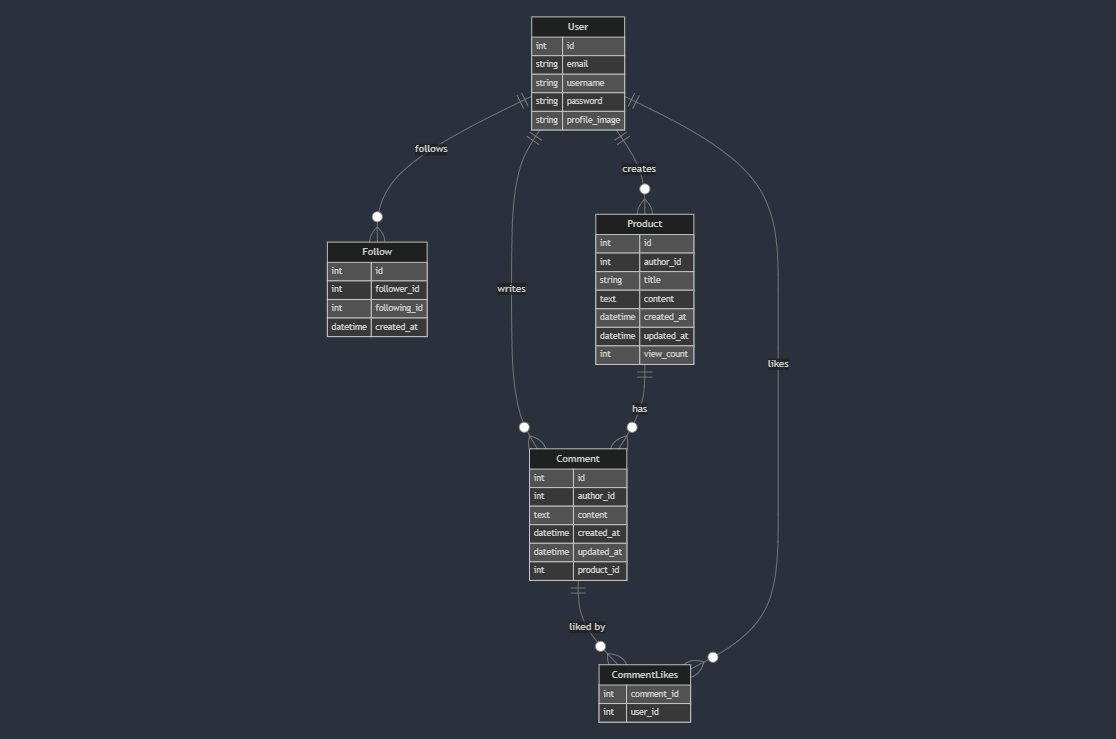
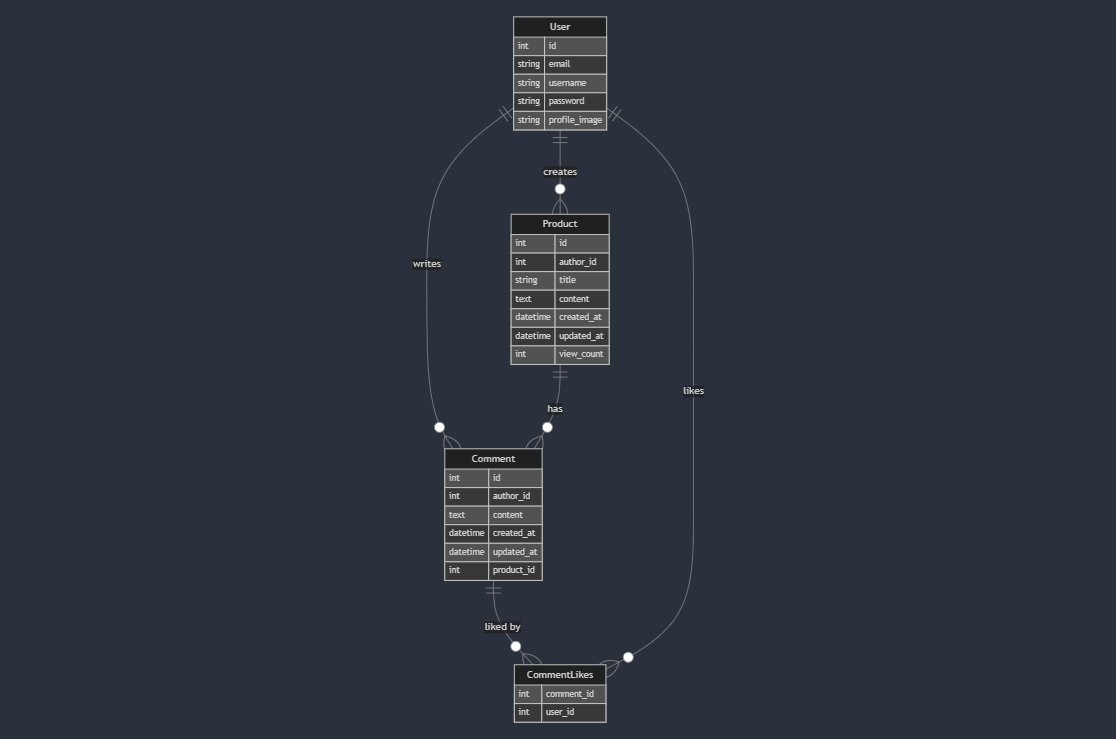
fifth commit

diff --git a/accounts/models.py b/accounts/models.py
@@ -22,16 +22,6 @@ class User(AbstractUser):
     username = models.CharField('닉네임', max_length=150)  # unique=True 제거
     profile_image = models.ImageField('프로필 이미지', upload_to='profile_images/', blank=True, null=True)
     
-    # ManyToManyField로 팔로우 기능 구현
-    followings = models.ManyToManyField(
-        'self',  # 자기 자신과의 관계
-        symmetrical=False,  # 대칭 관계가 아님 (단방향)
-        related_name='followers',  # 역참조 이름
-        through='Follow',  # 중간 테이블
-        blank= True
-    )
-
-
     USERNAME_FIELD = 'email'    # 로그인 시 이메일 사용
     REQUIRED_FIELDS = []        # email은 자동으로 필수
 
@@ -41,18 +31,3 @@ class User(AbstractUser):
     def __str__(self):
         return self.email
     
-
-
-# 중간 테이블을 명시적으로 정의
-class Follow(models.Model):
-    follower = models.ForeignKey(
-        User, related_name='followed_users', on_delete=models.CASCADE)  # 팔로우를 하는 사용자
-    following = models.ForeignKey(
-        User, related_name='following_users', on_delete=models.CASCADE)  # 팔로우받는 사용자
-    created_at = models.DateTimeField(auto_now_add=True)  # 팔로우한 시간
-
-    class Meta:
-        unique_together = ('follower', 'following')  # 중복 팔로우 방지
-
-    def __str__(self):
-        return f"{self.follower} follows {self.following}"

diff --git a/accounts/serializers.py b/accounts/serializers.py
@@ -32,21 +32,11 @@ class SignupSerializer(serializers.ModelSerializer):
 #         fields = ['email', 'username', 'profile_image']  # 반환할 필드
 
 class UserProfileSerializer(serializers.ModelSerializer):
-    
-    class FollowSerializer(serializers.ModelSerializer):
-        class Meta:
-            model = User
-            fields = ("id", "email", "username", "profile_image")
-
-    followers = FollowSerializer(many=True, read_only=True)
-    followings = FollowSerializer(many=True, read_only=True)
-    follower_count = serializers.IntegerField(source='followers.count', read_only=True)
-    following_count = serializers.IntegerField(source='followings.count', read_only=True)
     profile_image = serializers.SerializerMethodField()  # 커스텀 필드로 처리
     
     class Meta:
         model = User
-        fields = ['email', 'username', 'profile_image', 'followings', 'followers', 'follower_count', 'following_count']  # 반환할 필드
+        fields = ['email', 'username', 'profile_image']  # 반환할 필드에서 팔로우 관련 필드 삭제
         
     def get_profile_image(self, obj):
         request = self.context.get('request')  # Serializer context에서 request 가져오기

diff --git a/accounts/views.py b/accounts/views.py
@@ -76,27 +76,3 @@ def profile(request):
                 "user": serializer.data
             }, status=status.HTTP_200_OK)
         return Response(serializer.errors, status=status.HTTP_400_BAD_REQUEST)
-
-
-@api_view(["POST"])
-def follow(request, user_pk):
-    profile_user = get_object_or_404(User, pk=user_pk)
-    me = request.user
-    
-    if me == profile_user:
-        return Response({'error': '자기 자신을 팔로우할 수 없습니다.'}, 
-                      status=status.HTTP_400_BAD_REQUEST)
-    
-    if me.followings.filter(pk=profile_user.pk).exists():
-        me.followings.remove(profile_user)
-        is_followed = False
-        message = f'{profile_user.email}님 팔로우를 취소했습니다.'
-    else:
-        me.followings.add(profile_user)
-        is_followed = True
-        message = f'{profile_user.email}님을 팔로우했습니다.'
-
-    return Response({
-        'is_followed': is_followed,
-        'message': message,
-    }, status=status.HTTP_200_OK)

diff --git a/accounts/urls.py b/accounts/urls.py
@@ -12,7 +12,6 @@ urlpatterns = [
     path('login/', views.login, name='login'),
     path('logout/', views.logout, name='logout'),
     path('profile/', views.profile, name='profile'),  # 회원정보 조회 및 수정
-    path('<int:user_pk>/follow/', views.follow, name='follow'), #팔로우/언팔로우 토글
     path('token/', TokenObtainPairView.as_view(), name='token_obtain_pair'),
     path('token/refresh/', TokenRefreshView.as_view(), name='token_refresh'),
     path('token/blacklist/', TokenBlacklistView.as_view(), name='token_blacklist'),

diff --git a/readme.md b/readme.md
@@ -6,8 +6,9 @@
 
 ## 주요 기능
 
-- 사용자 인증 (회원가입/로그인/프로필조회)
-- 제품 등록 및 관리(등록, 목록조회, 수정, 삭제)
+- 사용자 인증 (회원가입/로그인/프로필조회/로그아웃)
+- 제품 등록 및 관리(등록, 목록조회, 상세조회, 수정, 삭제)
+
 
 
 ### 필요 조건

diff --git a/API문서.md b/API문서.md
@@ -60,12 +60,6 @@
 - **Response**:
   - `200 OK`: 프로필 수정 성공
 
-### 팔로우/언팔로우
-- **URL**: `/accounts/<int:user_pk>/follow/`
-- **Method**: `POST`
-- **Headers**: `Authorization: Bearer <token>`
-- **Response**:
-  - `200 OK`: 팔로우/언팔로우 성공
 
 ## 제품 관리 API
 
